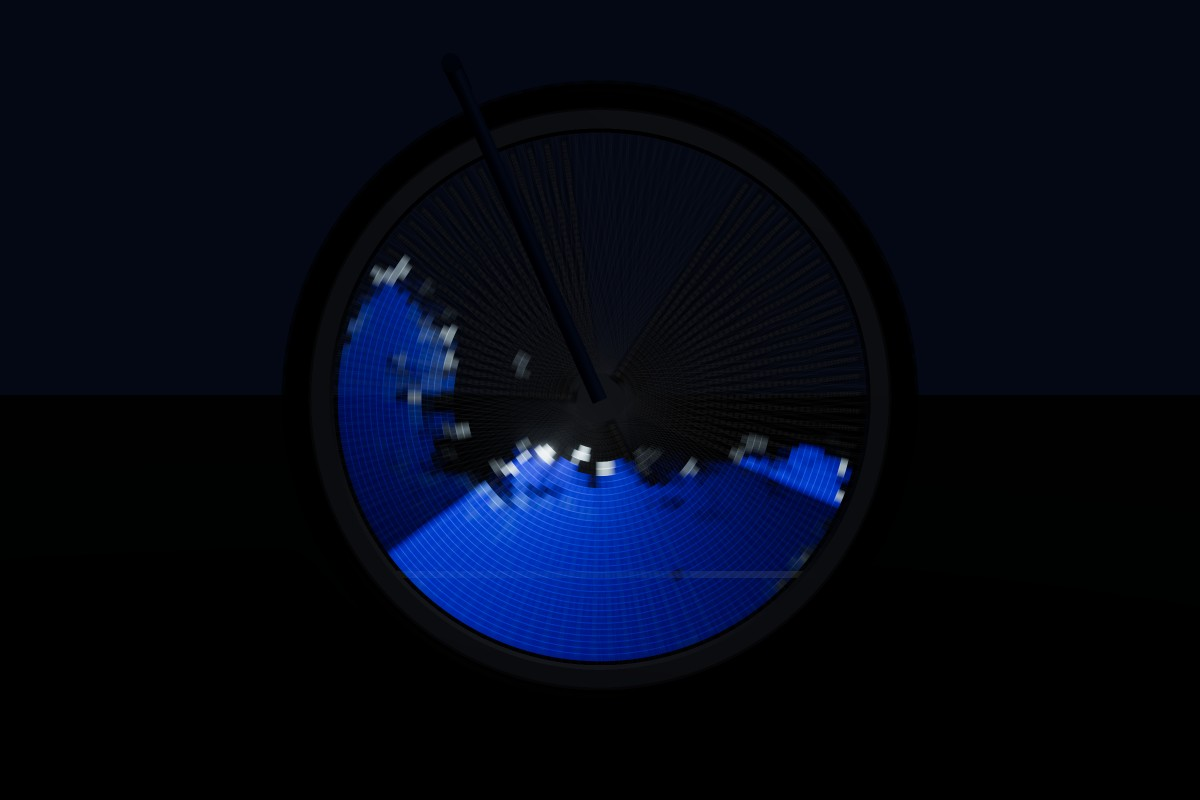
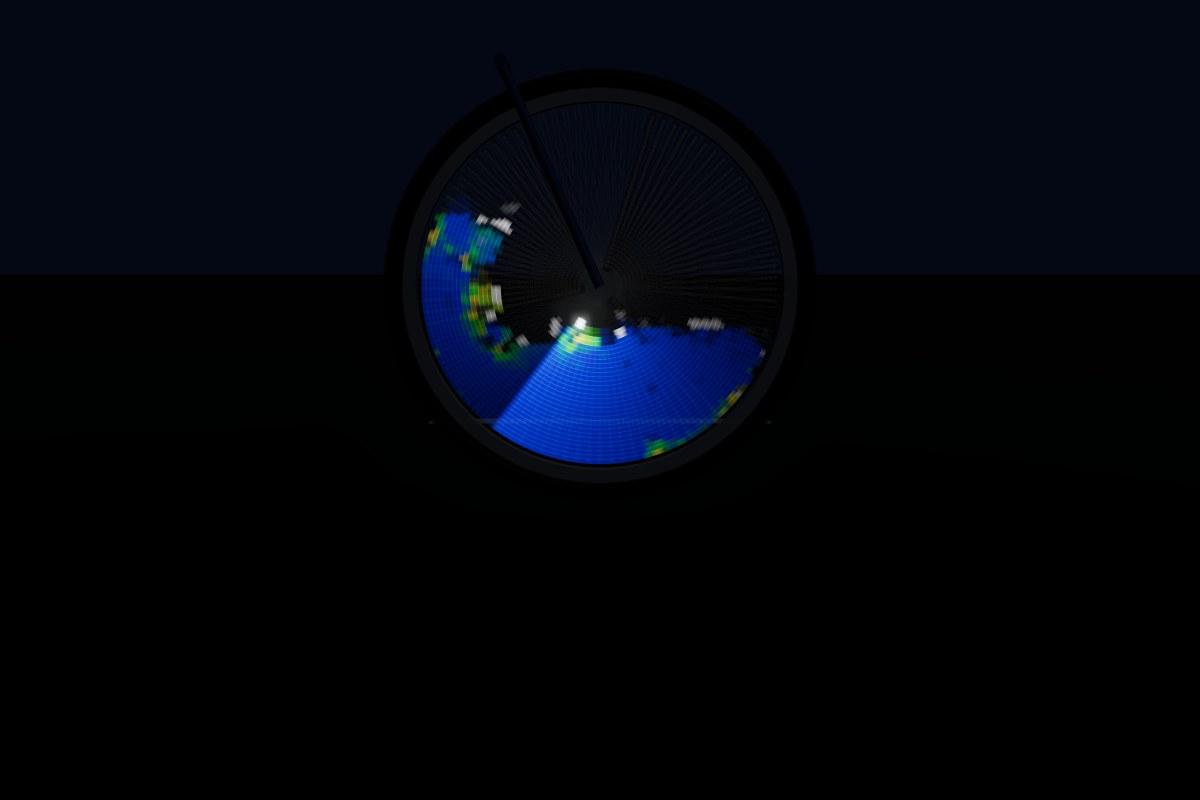
Open on Ball on a bridge, ball rides with the bike, foam ramp, new gallery
- Banner pictures can ride with the bike (drawn around the hub, upright)
  instead of being pinned to the road; the lower-half pattern stays on
  the road. The Ball on a bridge preset (was Flip-book ball) uses this,
  and the app now opens on it.
- The ball bounces up to the top of the LEDs' reach when riding with the
  bike, is 1.5x larger and has a light orange highlight; bridge members
  and deck are twice as thick.
- Water foam shifts from blue through green and yellow to white as it
  speeds up; spray stays white.
- The roadside strip's track is a whole number of wheel turns, so long
  exposures spanning several laps look like a single pass instead of
  overlaying offset copies of angle-dependent patterns.
- README gallery: new hero (both views), banner shots from the roadside
  strip (HELLO with rainbow arches, scallops, pulling away, the bridge)
  and the water shots re-rendered with the new foam.

Changed region(s): [[0.2775, 0.25, 0.7092, 0.8438]]

diff --git a/src/image/load.ts b/src/image/load.ts
@@ -285,14 +285,16 @@ const ANIMATED: Record<string, { frames: number; fps: number; draw: (g: CanvasRe
 /**
  * Banner frames for the bouncing ball: it bounces on the deck of the truss-bridge lower half,
  * flattening as it lands. The deck itself comes from that pattern; its top edge is DECK_TOP of the
- * way down the banner (0.19 of the half height above the hub).
+ * way down the banner (0.19 of the half height above the hub). With the picture riding with the
+ * bike, the ball stays over the hub while the bridge passes underneath.
  */
 const DECK_TOP = 0.405;
-function ballBanner(frames: number): HTMLCanvasElement[] {
-  const H = SIZE, W = Math.round(H * 0.75), ball = H * 0.055;
-  // The top of the bounce stays below the very top of the LEDs' reach, where the outer LEDs
-  // leave gaps (above ~0.8 of the reach).
-  const floor = H * DECK_TOP, apex = H * 0.11 + ball, rest = floor - ball;
+function ballBanner(frames: number, ridesWithBike: boolean): HTMLCanvasElement[] {
+  const H = SIZE, W = Math.round(H * 0.75), ball = H * 0.0825;
+  // Bounce as high as the LEDs reach. Riding with the bike, every point of the disc is swept each
+  // turn, so the ball can touch the top. Pinned to the road, the outer LEDs leave gaps above
+  // ~0.8 of their reach, so the bounce stays below that.
+  const floor = H * DECK_TOP, apex = H * (ridesWithBike ? 0.01 : 0.11) + ball, rest = floor - ball;
   return Array.from({ length: frames }, (_, i) => {
     const { c, g } = canvas(W, H);
     g.fillStyle = '#000';
@@ -305,12 +307,20 @@ function ballBanner(frames: number): HTMLCanvasElement[] {
     g.beginPath();
     g.ellipse(W / 2, y, ball / squash, ball * squash, 0, 0, Math.PI * 2);
     g.fill();
+    // A light orange highlight towards the upper left, squashed with the ball.
+    g.fillStyle = '#ffa030';
+    g.beginPath();
+    g.ellipse(W / 2 - (0.35 * ball) / squash, y - 0.35 * ball * squash, (0.35 * ball) / squash, 0.35 * ball * squash, 0, 0, Math.PI * 2);
+    g.fill();
     return c;
   });
 }
 
-/** Built-in patterns as animations (stills have one frame). */
-export function makeAnimation(name: PatternName, text: string): Animation {
+/**
+ * Built-in patterns as animations (stills have one frame). ridesWithBike: the banner picture is
+ * drawn around the hub rather than pinned to the road, which lets the bouncing ball go higher.
+ */
+export function makeAnimation(name: PatternName, text: string, ridesWithBike = false): Animation {
   const anim = ANIMATED[name];
   if (name === 'Wide text') {
     const banner = wideText(text);
@@ -328,7 +338,7 @@ export function makeAnimation(name: PatternName, text: string): Animation {
     frames.push(c);
   }
   // The wheel-locked ball stays inside its rim; on a banner it bounces on a bridge deck instead.
-  const bannerFrames = name === 'Bouncing ball (animated)' ? ballBanner(anim.frames) : undefined;
+  const bannerFrames = name === 'Bouncing ball (animated)' ? ballBanner(anim.frames, ridesWithBike) : undefined;
   return { frames, fps: anim.fps, bannerFrames };
 }
 

diff --git a/src/params.ts b/src/params.ts
@@ -171,6 +171,7 @@ export function defaultParams() {
     displayMode: 'wheel' as 'wheel' | 'banner', // banner: image pinned to the world, tiled along the road
     tileGapM: 0,
     bannerLower: 'arches' as BannerLower, // banner: the lower half is a picture or a pattern drawn around the voids
+    bannerUpper: 'road' as 'road' | 'bike', // banner: the picture is pinned to the road or rides with the bike
     // Animation
     frameAdvance: 'timed' as 'timed' | 'revolution', // timed: at animFps; revolution: at the magnet
     animFps: 12,              // the clip's own frame rate (set when a clip or pattern loads)
@@ -229,7 +230,7 @@ export type Params = ReturnType<typeof defaultParams>;
 // setup file (and, later, what gets flashed to the controller). Everything else only drives the
 // simulation: riding, camera, exposure and rendering.
 export const PRESET_KEYS = [
-  'pattern', 'useMedia', 'text', 'displayMode', 'tileGapM', 'bannerLower', 'mapping', 'fit', 'imageRotationDeg',
+  'pattern', 'useMedia', 'text', 'displayMode', 'tileGapM', 'bannerLower', 'bannerUpper', 'mapping', 'fit', 'imageRotationDeg',
   'globalBrightness', 'radialCompensation',
   'waterFill', 'fluid', 'waterFlip', 'waterViscosity', 'waterSeparation', 'rimFriction', 'waterGain',
   'waterGrid', 'waterHz', 'waterIters', 'accelSmoothMs',
@@ -258,7 +259,7 @@ export const PATTERN_LABELS: Record<PatternName, string> = {
 
 // Allowed values for the string settings that pick from a list.
 const CHOICES: Partial<Record<keyof Params, readonly string[]>> = {
-  pattern: PATTERNS, bannerLower: BANNER_LOWER, fluid: Object.keys(FLUIDS), displayMode: ['wheel', 'banner'], mapping: ['polar', 'columns'],
+  pattern: PATTERNS, bannerLower: BANNER_LOWER, bannerUpper: ['road', 'bike'], fluid: Object.keys(FLUIDS), displayMode: ['wheel', 'banner'], mapping: ['polar', 'columns'],
   fit: ['disc', 'annulus'], frameAdvance: ['timed', 'revolution'], wheelPreset: Object.keys(WHEELS),
   ledPackage: Object.keys(PACKAGES), backData: ['same', 'independent'], chip: Object.keys(CHIPS),
   ledType: Object.keys(LEDS), firmware: Object.keys(FIRMWARE), syncMode: ['hall', 'ideal', 'free'],

diff --git a/src/image/polarize.ts b/src/image/polarize.ts
@@ -214,12 +214,20 @@ export interface WaterMaps {
 
 /**
  * Paint one firmware frame of water into `out` (RGBA PWM duty). The body of water is deep
- * blue; fast water near the surface whitens into whitecaps; water with no body around it is
- * spray, drawn as bright white droplets; air is black.
+ * blue; fast water near the surface foams, shifting through green and yellow to white as it gets
+ * faster; water with no body around it is spray, drawn as bright white droplets; air is black.
  */
 export function renderWater(maps: WaterMaps, lut: Int32Array, p: Params, d: Derived, out: Uint8Array): number {
   const C = p.columnsPerRev, n = d.ledsPerStrip;
-  const deep = [0.08, 0.35, 1.0], foam = [0.85, 0.95, 1.0];
+  // Foam colour ramp from still water (f = 0) to the fastest foam and spray (f = 1): [f, r, g, b].
+  // Yellow holds over a wide band, or the green-to-white blend (after gamma) would hide it.
+  const ramp = [[0, 0.08, 0.35, 1.0], [0.25, 0.1, 0.9, 0.3], [0.45, 1.0, 0.9, 0.1], [0.75, 1.0, 0.9, 0.1], [1, 1.0, 1.0, 1.0]];
+  const colour = (f: number, ch: number) => {
+    let i = 0;
+    while (i < ramp.length - 2 && f > ramp[i + 1][0]) i++;
+    const [f0, f1] = [ramp[i][0], ramp[i + 1][0]];
+    return ramp[i][ch + 1] + (ramp[i + 1][ch + 1] - ramp[i][ch + 1]) * Math.min(1, Math.max(0, (f - f0) / (f1 - f0)));
+  };
   const g = (x: number) => Math.pow(x, p.gamma);
   const clamp = (x: number) => Math.min(1, Math.max(0, x));
   const { renderDensity: dens, renderBulk: bulk, renderSpeed: speed } = maps;
@@ -237,7 +245,7 @@ export function renderWater(maps: WaterMaps, lut: Int32Array, p: Params, d: Deri
     const k = Math.floor(idx / C) % n;
     const comp = p.radialCompensation ? ledRadius(p, d, 0, k) / d.rEnd : 1;
     for (let ch = 0; ch < 3; ch++) {
-      const v = g(deep[ch] + (foam[ch] - deep[ch]) * f) * a * comp;
+      const v = g(colour(f, ch)) * a * comp;
       out[o + ch] = Math.round(v * 255);
       sum += v;
     }

diff --git a/src/main.ts b/src/main.ts
@@ -61,7 +61,7 @@ const { composer: stripComposer, bloom: stripBloom } = createPost(renderer, scen
 const motion = new WheelMotion();
 
 // ---- Image source and firmware column buffer ----
-let source: Animation = makeAnimation(p.pattern, p.text);
+let source: Animation = makeAnimation(p.pattern, p.text, p.bannerUpper === 'bike');
 let sourceVersion = 0;
 let buffer: FrameStack | undefined;
 let banner: (FrameStack & { pixelM: number }) | undefined;
@@ -139,7 +139,7 @@ let loadGen = 0;
 async function loadSource() {
   const gen = ++loadGen;
   const media = store.active.media;
-  if (!p.useMedia || !media) { setSource(makeAnimation(p.pattern, p.text)); return; }
+  if (!p.useMedia || !media) { setSource(makeAnimation(p.pattern, p.text, p.bannerUpper === 'bike')); return; }
   try {
     const blob = await getMedia(media.id);
     if (!blob) throw new Error('it is no longer stored in this browser');
@@ -149,7 +149,7 @@ async function loadSource() {
     if (gen !== loadGen) return;
     console.warn(`Couldn't load ${media.name}: ${(err as Error).message}`);
     p.useMedia = false;
-    setSource(makeAnimation(p.pattern, p.text));
+    setSource(makeAnimation(p.pattern, p.text, p.bannerUpper === 'bike'));
   }
 }
 
@@ -176,7 +176,7 @@ const hooks = {
   onPresetEdit: (key: string) => {
     if (key === 'name') return; // renamed in the store already
     store.capture(p);
-    if (key === 'show' || key === 'text') loadSource();
+    if (key === 'show' || key === 'text' || key === 'bannerUpper') loadSource();
     if ((key === 'maxFrames' || key === 'videoFps') && p.useMedia) {
       clearTimeout(reloadTimer);
       reloadTimer = window.setTimeout(loadSource, 400);

diff --git a/test/presets.test.ts b/test/presets.test.ts
@@ -1,6 +1,6 @@
 import { describe, expect, it } from 'vitest';
 import { defaultParams, DEVICE_KEYS, PRESET_KEYS } from '../src/params';
-import { BUILT_IN_PRESETS, type KeyValueStorage, PresetStore } from '../src/presets';
+import { BUILT_IN_PRESETS, DEFAULT_PRESET, type KeyValueStorage, PresetStore } from '../src/presets';
 import { loadDevice, parseSetup, saveDevice, serializeSetup, setupFileName } from '../src/setupFile';
 
 function memoryStorage(): KeyValueStorage & { data: Map<string, string> } {
@@ -18,17 +18,19 @@ describe('setting groups', () => {
 });
 
 describe('preset store', () => {
-  it('seeds 5–8 built-in presets on first load, with Water first', () => {
+  it('seeds 5–8 built-in presets on first load, Water first, opening on the default', () => {
     const s = new PresetStore(memoryStorage());
     expect(s.presets.length).toBe(BUILT_IN_PRESETS.length);
     expect(s.presets.length).toBeGreaterThanOrEqual(5);
     expect(s.presets.length).toBeLessThanOrEqual(8);
-    expect(s.active.name).toBe('Water');
+    expect(s.presets[0].name).toBe('Water');
+    expect(s.active.name).toBe(DEFAULT_PRESET);
     expect(new Set(s.presets.map((x) => x.name)).size).toBe(s.presets.length);
   });
 
   it('steps through presets with one button, wrapping round', () => {
     const s = new PresetStore();
+    s.select(0);
     const names = s.presets.map(() => s.next().name);
     expect(names.at(-1)).toBe('Water');
     expect(names[0]).toBe(s.presets[1].name);

diff --git a/src/ui.ts b/src/ui.ts
@@ -102,6 +102,7 @@ export function buildUi(p: Params, hooks: UiHooks): Ui {
   const uploadCtl = pg.add({ upload: () => mediaInput.click() }, 'upload').name('📂 Upload image / GIF / video…');
   const textCtl = pg.add(p, 'text').name('Text');
   pg.add(p, 'displayMode', { 'Turns with wheel': 'wheel', 'Banner on the road': 'banner' }).name('Mode');
+  const upperCtl = pg.add(p, 'bannerUpper', { 'Pinned to the road': 'road', 'Rides with the bike': 'bike' }).name('Picture');
   const gapCtl = pg.add(p, 'tileGapM', 0, 3, 0.05).name('Banner gap (m)');
   const lowerCtl = pg.add(p, 'bannerLower', {
     'Arches': 'arches', 'Rainbow arches': 'rainbow', 'Scallops': 'scallops', 'Beads': 'beads', 'Truss bridge': 'bridge',
@@ -281,7 +282,8 @@ export function buildUi(p: Params, hooks: UiHooks): Ui {
     const animated = hooks.isAnimated();
     textCtl.show(!p.useMedia && (p.pattern === 'Text' || p.pattern === 'Wide text'));
     uploadCtl.show(p.useMedia);
-    gapCtl.show(p.displayMode === 'banner');
+    upperCtl.show(p.displayMode === 'banner');
+    gapCtl.show(p.displayMode === 'banner' && p.bannerUpper === 'road');
     lowerCtl.show(p.displayMode === 'banner');
     water.show(isWater);
     anim.show(!isWater && animated);

diff --git a/src/presets.ts b/src/presets.ts
@@ -28,8 +28,14 @@ export const BUILT_IN_PRESETS: { name: string; settings: PresetSettings }[] = [
   { name: 'Clock face', settings: { pattern: 'Clock face' } },
   { name: 'Beating heart', settings: { pattern: 'Beating heart (animated)' } },
   { name: 'HELLO banner', settings: { pattern: 'Wide text', text: 'HELLO', displayMode: 'banner', bannerLower: 'rainbow' } },
-  { name: 'Flip-book ball', settings: { pattern: 'Bouncing ball (animated)', displayMode: 'banner', bannerLower: 'bridge' } },
+  {
+    name: 'Ball on a bridge',
+    settings: { pattern: 'Bouncing ball (animated)', displayMode: 'banner', bannerLower: 'bridge', bannerUpper: 'bike' },
+  },
 ];
+
+/** The preset the app opens on: on first load, after New, and after restoring the built-ins. */
+export const DEFAULT_PRESET = 'Ball on a bridge';
 
 export function newId(): string {
   return Math.random().toString(36).slice(2, 10) + Date.now().toString(36);
@@ -103,7 +109,8 @@ export class PresetStore {
   }
 
   restoreBuiltIns() {
-    this.replaceAll(builtInPresets());
+    const presets = builtInPresets();
+    this.replaceAll(presets, Math.max(0, presets.findIndex((x) => x.name === DEFAULT_PRESET)));
   }
 
   select(i: number) {

diff --git a/src/render/camera.ts b/src/render/camera.ts
@@ -50,7 +50,10 @@ export function createStripCamera() {
 
 /**
  * Frame the strip so the wheel, ground to top, fills its height. Returns the track length: the
- * visible road plus a wheel on each side, so the bike rolls fully in and out before it loops.
+ * visible road plus a wheel on each side, so the bike rolls fully in and out before it loops,
+ * rounded up to whole wheel turns. Then the wheel reaches each spot at the same angle every lap, so
+ * a long exposure spanning several laps looks like one pass (patterns tied to the wheel angle,
+ * like the banner's lower half, would otherwise land in a different place each lap).
  */
 export function placeStripCamera(camera: THREE.PerspectiveCamera, p: Params, d: Derived, aspect: number): number {
   const z = p.side === 'drive' ? 1 : -1;
@@ -60,5 +63,6 @@ export function placeStripCamera(camera: THREE.PerspectiveCamera, p: Params, d: 
   camera.position.set(0, 0, z * dist);
   camera.lookAt(0, 0, 0);
   camera.updateProjectionMatrix();
-  return 2 * halfH * aspect + 2 * d.tireRadius;
+  const turn = 2 * Math.PI * d.tireRadius;
+  return Math.ceil((2 * halfH * aspect + 2 * d.tireRadius) / turn) * turn;
 }

diff --git a/src/render/povMaterial.ts b/src/render/povMaterial.ts
@@ -78,7 +78,7 @@ export class PovDisplay {
       uFrames: { value: 1 }, uFrameTimed: { value: 1 }, uFps: { value: 12 },
       uBanner: { value: 0 }, uBannerTex: { value: this.bannerTex }, uBannerW: { value: 1 },
       uBannerTile: { value: 1 }, uBannerHalfH: { value: 0.3 }, uBannerMirror: { value: 0 }, uPredict: { value: 1 },
-      uLower: { value: 0 },
+      uLower: { value: 0 }, uBannerRide: { value: 0 },
     };
     const make = (side: number) => new THREE.ShaderMaterial({
       glslVersion: THREE.GLSL3,
@@ -243,6 +243,7 @@ export class PovDisplay {
     u.uBannerMirror.value = independent ? 1 : 0;
     u.uPredict.value = p.predictMotion ? 1 : 0;
     u.uLower.value = BANNER_LOWER.indexOf(p.bannerLower);
+    u.uBannerRide.value = p.bannerUpper === 'bike' ? 1 : 0;
     u.uRRoll.value = d.tireRadius;
     this.back.visible = p.doubleSided;
 

diff --git a/README.md b/README.md
@@ -4,11 +4,11 @@ A tunable three.js simulation of a DIY persistence-of-vision (POV) bicycle wheel
 
 **Live demo:** https://adamburr.github.io/pov-wheel-sim/
 
-![Water sloshing in a 700c wheel with 3 LED strips at 12 mph, 1/4 s exposure](docs/images/hero-water.jpg)
+![The default Ball on a bridge preset at 10 mph: a ball bouncing above the hub, riding with the bike, over a truss bridge pinned to the road, in the roadside strip (top) and the follow view](docs/images/hero-bridge.jpg)
 
 ## Examples
 
-These are all renders from the simulator, starting from the defaults (700c wheel, 3 strips of 144 LED/m APA102, RP2350, water pattern, 60% pedal surge) with stop-and-go off, unless the caption says otherwise.
+These are all renders from the simulator, starting from the Water preset and the default build (700c wheel, 3 strips of 144 LED/m APA102, RP2350, 60% pedal surge) with stop-and-go off and the roadside strip hidden, unless the caption says otherwise. The banner shots are crops of the roadside strip.
 
 <table>
   <tr>
@@ -29,11 +29,14 @@ These are all renders from the simulator, starting from the defaults (700c wheel
   </tr>
   <tr>
     <td width="50%"><img src="docs/images/ride-by.jpg" alt="Cycloid streaks from a roadside camera"><br><sub><b>Ride-by,</b> 10 mph, 1/4 s, smiley: a fixed roadside camera sees the LEDs trace cycloids.</sub></td>
-    <td width="50%"><img src="docs/images/banner-hello.jpg" alt="HELLO painted in the air in banner mode"><br><sub><b>Banner mode,</b> 10 mph, 2 s: the image is pinned to the world and painted as the bike rides past.</sub></td>
+    <td width="50%"><img src="docs/images/banner-hello.jpg" alt="HELLO painted in the air above rainbow arches in banner mode"><br><sub><b>HELLO banner preset,</b> roadside, 10 mph, 2 s: the text is pinned to the road in the upper half, and rainbow arches outline the voids the strips never sweep below the hub.</sub></td>
   </tr>
   <tr>
-    <td width="50%"><img src="docs/images/banner-surge.jpg" alt="Torn banner while pulling away"><br><sub><b>Banner while pulling away</b> from 4 to 16 mph, with 4 ms hall polling and no motion prediction: dead-reckoning errors from the pedal surges tear the text.</sub></td>
-    <td width="50%"><img src="docs/images/banner-flipbook.jpg" alt="Bouncing ball animation as a flip-book along the road"><br><sub><b>Animated banner:</b> frames advance as the bike travels, so the road becomes a flip-book.</sub></td>
+    <td width="50%"><img src="docs/images/banner-scallops.jpg" alt="Alternating coloured scallops around dark arch-shaped voids"><br><sub><b>Scallops lower half,</b> roadside, 10 mph, 2 s: the lit ground between the voids is filled in alternating colours, so the arch-shaped voids show plainly.</sub></td>
+    <td width="50%"><img src="docs/images/banner-surge.jpg" alt="Torn banner while pulling away"><br><sub><b>Banner while pulling away</b> from 4 to 16 mph, with 4 ms hall polling and no motion prediction: dead-reckoning errors from the pedal surges tear the text and fling the arches.</sub></td>
+  </tr>
+  <tr>
+    <td colspan="2"><img src="docs/images/banner-bridge.jpg" alt="A ball bouncing along above a truss bridge"><br><sub><b>Ball on a bridge</b> (the default preset), roadside, 10 mph, 1/2 s: the truss bridge is pinned to the road while the ball rides with the bike, showing each time a strip sweeps over it.</sub></td>
   </tr>
 </table>
 
@@ -52,7 +55,7 @@ Two views show the same moment and the same animation. The main view follows the
 
 ### Presets
 
-A real wheel has one button that steps through its presets in order while you ride; **Next ▶** does the same here. The app starts with eight: Water, Splashy water, Smiley, Rainbow spiral, Clock face, Beating heart, HELLO banner and Flip-book ball. Edit any of them, add a copy with **＋ New preset**, reorder them with ↑ / ↓, or delete them. **Restore built-in presets** (under *Manage presets*) brings back the originals. Dropping or pasting an image puts it in the selected preset.
+A real wheel has one button that steps through its presets in order while you ride; **Next ▶** does the same here. The app starts with eight: Water, Splashy water, Smiley, Rainbow spiral, Clock face, Beating heart, HELLO banner and Ball on a bridge, and opens on Ball on a bridge. Edit any of them, add a copy with **＋ New preset**, reorder them with ↑ / ↓, or delete them. **Restore built-in presets** (under *Manage presets*) brings back the originals. Dropping or pasting an image puts it in the selected preset.
 
 ### Setups
 
@@ -89,11 +92,11 @@ Frames can advance on a timer (at the clip's fps) or every N wheel revolutions:
 - **Timed** keeps the clip's speed. A frame can change mid-revolution, so different sectors show different frames (visible seams).
 - **Revolution-synced** switches cleanly at the magnet, but the playback rate rises and falls with the bike's speed.
 
-In banner mode the frames advance as the bike travels, so the road becomes a flip-book. On a banner the bouncing ball has its own layout: it bounces on the deck of the *Truss bridge* lower half (the Flip-book ball preset), so the road becomes a ball bouncing along a bridge.
+In banner mode the frames advance as the bike travels, so the road becomes a flip-book. On a banner the bouncing ball has its own layout: it bounces on the deck of the *Truss bridge* lower half. In the *Ball on a bridge* preset the ball rides with the bike while the bridge stays pinned to the road, so it bounces along above the hub as the bridge passes underneath.
 
 ### Water mode
 
-The simulator opens in water mode: simulated water fills the bottom of the disc. To return to it, pick the **Water** preset, or choose *Water* under a preset's **Show** menu. Use the speed panel at the bottom of the screen to ride:
+The **Water** preset fills the bottom of the disc with simulated water (or choose *Water* under any preset's **Show** menu). Use the speed panel at the bottom of the screen to ride:
 - Drag the slider to change speed.
 - **🛑 Brake** stops the bike; **▶ Ride** sets off again.
 - **Stop-and-go** (on by default) rides through the city automatically: it pulls away to a top speed between half and one and a half times the stop-and-go cruise speed, cruises for 4–12 s, brakes for a light, and waits 2–6 s. Each light turns red at a random distance ahead (3–40 m), and the rider brakes just hard enough to stop there, so some stops are sharp and others a slow roll-down. Each pull-away varies too.
@@ -111,7 +114,7 @@ Each type sets the liveliness (FLIP ratio), viscosity and particle spacing, all 
 
 **Rendering.** The LEDs read a map twice as fine as the simulation grid, built from the particles each step:
 - the body of water is deep blue
-- fast-moving surface water whitens into whitecaps
+- fast-moving surface water foams, shifting from blue through green and yellow to white as it speeds up
 - loose droplets glint white as spray
 
 A magnet-only build can't sense bumps, so there are no bump splashes.
@@ -128,6 +131,8 @@ The **Stats** tab shows:
 ### Banner mode
 
 Set a preset's **Mode** to *Banner on the road* (or pick the *HELLO banner* preset) and the image stops turning with the wheel. It is pinned to the world instead and tiles along the road. At every update the firmware works out where each LED is and lights it with that spot of the banner, so the spinning strips act like a scanner that reveals a picture hanging in the air. In the roadside strip's long exposure, the bike paints the banner as it rides by.
+
+Set the preset's **Picture** to *Rides with the bike* and the picture is drawn around the hub instead, upright and not turning with the wheel, so it travels with the bike while the lower-half pattern stays on the road. In a long roadside exposure it then smears along the road, as anything riding with the bike would.
 
 Banners keep their text and pictures in the **upper half**. Below the hub the strips leave **voids**: arches standing on the road that no LED ever passes over. With 3 strips per side on a 700c wheel, about 90% of the bottom quarter and half of the band just below the middle stay dark, in a pattern that repeats every 71 cm (the circumference divided by the strips). The firmware works out banner position from the wheel's rotation, so the voids always fall in the same place in the banner, at any speed.
 
@@ -147,7 +152,7 @@ Position comes from hall-sensor dead reckoning: whole turns at each magnet pass,
 
 | Where | Highlights |
 |---|---|
-| Presets | Show: test patterns (some animated) or your own image, animated GIF/WebP/APNG, or video. Text, wheel-locked or banner mode, banner gap, the banner's lower-half pattern (arches, rainbow arches, scallops, beads, truss bridge or a full-height picture), brightness. *Water:* fluid type (water, splashy, thick), fill, rim drag, slosh, and under Details the FLIP ratio, viscosity, particle spacing, grid size, sim rate, pressure iterations and acceleration smoothing. *Animation:* playback speed, timed or every-N-turns frame advance, import frame limit, video sample rate. *Picture details:* polar (picture) or Adafruit columns-as-angles layout, fit, rotation, inner-LED dimming |
+| Presets | Show: test patterns (some animated) or your own image, animated GIF/WebP/APNG, or video. Text, wheel-locked or banner mode, banner gap, whether a banner picture is pinned to the road or rides with the bike, the banner's lower-half pattern (arches, rainbow arches, scallops, beads, truss bridge or a full-height picture), brightness. *Water:* fluid type (water, splashy, thick), fill, rim drag, slosh, and under Details the FLIP ratio, viscosity, particle spacing, grid size, sim rate, pressure iterations and acceleration smoothing. *Animation:* playback speed, timed or every-N-turns frame advance, import frame limit, video sample rate. *Picture details:* polar (picture) or Adafruit columns-as-angles layout, fit, rotation, inner-LED dimming |
 | Hardware | Setup name. *Wheel:* size presets (700c default, 29", 27.5", 26", 24", 20", 16", 12"), with rim, tire, depth and spokes under Details. *LEDs:* type (APA102, SK9822, HD107S, WS2812B, SK6812), strip count, LED/m, both sides, with package, diffuser, start radius, length, back-strip data (own data by default, so images read correctly from both sides; *shared* mirrors the non-drive side like the Adafruit wiring), stagger, gamma and bit depth under Details. *Controller:* chip (ATmega328P → Teensy 4.x, RP2350 default), firmware (C/Arduino hall sensor, Adafruit CircuitPython guide behaviour, or ideal encoder-locked), battery, with clock, lanes, overhead, PWM, sync, columns per turn, lines/s floor, hall poll and debounce under the details folders |
 | Simulator | *Camera:* drive or non-drive side, human eye or camera shutter for the main view, roadside strip above, below or hidden, strip exposure (the same as the main view, or its own shutter, 1 s by default), with eye persistence, auto exposure and EV under Details. *Ride:* mph or km/h, pedal surge (from estimated rider power), with cadence, acceleration and braking under Details. *Render:* daylight, glow, wheel and column-buffer display, time scale, pause |
 
